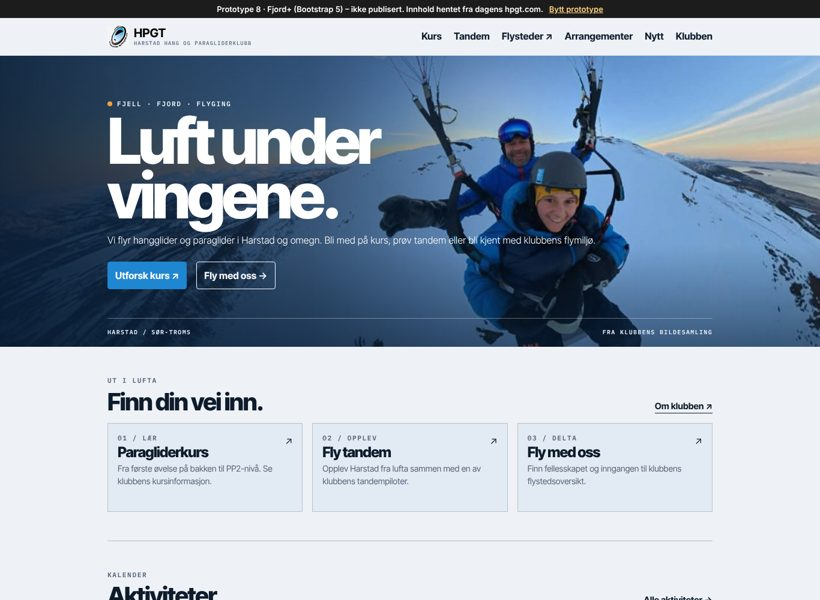
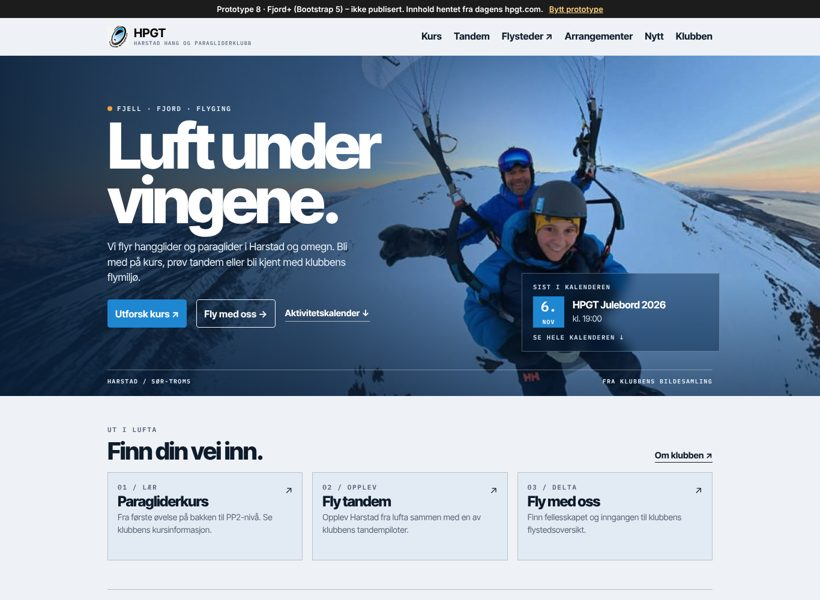
Fjord+: aktivitetskalender og overlay-kort på toppbildet (inspirert av Friluft+-utkastet), julebordet som aktivitet
Claude-Session: https://claude.ai/code/session_01NtTzVBrv64MLKp2Sqdi5ss

diff --git a/src/components/kalender.css b/src/components/kalender.css
@@ -1,0 +1,39 @@
+/* Aktivitetskalender. Hvert design setter --kal-*-variablene; standardverdiene er Fjord+ sine. */
+.kal { --_text: var(--kal-text, #0e1b2b); --_muted: var(--kal-muted, #56657a); --_line: var(--kal-line, #ccd7e4); --_surface: var(--kal-surface, #fff);
+  --_tint: var(--kal-tint, #e2eaf3); --_accent: var(--kal-accent, #1f86d1); --_accent-ink: var(--kal-accent-ink, #1569a8); --_mono: var(--kal-mono, ui-monospace, monospace);
+  display: grid; gap: 20px; grid-template-columns: minmax(0, 1fr) minmax(0, 1.2fr); align-items: start; color: var(--_text); }
+.kal:not(:has(.kal-grid:not([hidden]))) { grid-template-columns: minmax(0, 1fr); }
+@media (max-width: 760px) { .kal { grid-template-columns: minmax(0, 1fr); } }
+.kal-grid { background: var(--_surface); border: 1px solid var(--_line); padding: 16px; }
+.kal-controls { display: flex; justify-content: space-between; align-items: center; gap: 10px; margin-bottom: 10px; }
+.kal-label { margin: 0; font-weight: 800; font-size: 1.15rem; letter-spacing: -.02em; text-transform: capitalize; }
+.kal-btns { display: flex; gap: 4px; }
+.kal-btns button, .kal-jump { font: inherit; font-weight: 700; font-size: .85rem; color: var(--_text); background: var(--_surface); border: 1px solid var(--_line); padding: 5px 10px; cursor: pointer; }
+.kal-btns button:hover, .kal-jump:hover { border-color: var(--_accent); color: var(--_accent-ink); }
+.kal-btns button:focus-visible, .kal-jump:focus-visible { outline: 3px solid var(--_accent); outline-offset: 2px; }
+.kal-days { width: 100%; border-collapse: collapse; table-layout: fixed; font-variant-numeric: tabular-nums; }
+.kal-days th { font: 600 .66rem/1 var(--_mono); letter-spacing: .1em; text-transform: uppercase; color: var(--_muted); padding: 6px 0; text-align: center; }
+.kal-days td { text-align: center; padding: 2px; }
+.kal-day { display: grid; place-items: center; width: 34px; height: 34px; margin: auto; border-radius: 50%; font-size: .9rem; color: var(--_text); position: relative; }
+.kal-day--on { background: var(--_accent); color: #fff; font-weight: 700; }
+.kal-day--today { box-shadow: inset 0 0 0 2px var(--_text); }
+.kal-day--on.kal-day--today { box-shadow: inset 0 0 0 2px var(--_surface), 0 0 0 2px var(--_text); }
+.kal-legend { margin: 10px 0 0; font-size: .8rem; color: var(--_muted); display: flex; align-items: center; gap: 6px; }
+.kal-legend span { width: 12px; height: 12px; border-radius: 50%; background: var(--_accent); display: inline-block; }
+.kal-agenda { display: grid; gap: 10px; align-content: start; min-width: 0; }
+.kal-summary { background: var(--_tint); border: 1px solid var(--_line); padding: 12px 14px; }
+.kal-summary p { margin: 2px 0 0; }
+.kal-summary a { color: var(--_accent-ink); font-weight: 700; }
+.kal-eyebrow { font: 600 .66rem/1.2 var(--_mono); letter-spacing: .12em; text-transform: uppercase; color: var(--_muted); }
+.kal-title { margin: 6px 0 0; font-size: 1.15rem; font-weight: 800; letter-spacing: -.02em; }
+.kal-list { list-style: none; margin: 0; padding: 0; border-top: 1px solid var(--_line); }
+.kal-list li { display: grid; grid-template-columns: minmax(0, 1fr) auto; gap: 2px 12px; padding: 12px 2px; border-bottom: 1px solid var(--_line); }
+.kal-list li[hidden] { display: none; }
+.kal-date { grid-column: 1; font: 600 .7rem/1.3 var(--_mono); letter-spacing: .08em; text-transform: uppercase; color: var(--_accent-ink); }
+.kal-list a { grid-column: 1; font-weight: 700; color: var(--_text); text-decoration: none; }
+.kal-list a:hover { color: var(--_accent-ink); text-decoration: underline; }
+.kal-list small { grid-column: 1; color: var(--_muted); font-size: .85rem; }
+.kal-past { grid-column: 2; grid-row: 1 / span 2; align-self: center; font: 600 .6rem/1 var(--_mono); letter-spacing: .1em; text-transform: uppercase; color: var(--_muted); border: 1px solid var(--_line); padding: 4px 6px; }
+.kal-empty { margin: 4px 0 0; color: var(--_muted); }
+.kal-jump { justify-self: start; }
+.kal-fb { font-size: .88rem; font-weight: 700; color: var(--_accent-ink); }

diff --git a/public/assets/js/kalender.js b/public/assets/js/kalender.js
@@ -1,0 +1,64 @@
+// Aktivitetskalender: tegner månedsrutenettet og viser månedens aktiviteter. Leser data-start/data-end fra lista.
+(() => {
+  const root = document.querySelector("[data-kal]");
+  if (!root) return;
+  const q = (s) => root.querySelector(s);
+  const items = [...root.querySelectorAll("[data-kal-item]")].map((li) => ({
+    li, s: new Date(li.dataset.start + "T00:00:00"), e: new Date(li.dataset.end + "T23:59:59"),
+  }));
+  const mnd = ["januar", "februar", "mars", "april", "mai", "juni", "juli", "august", "september", "oktober", "november", "desember"];
+  const iDag = new Date(); iDag.setHours(0, 0, 0, 0);
+  let vis = new Date(iDag.getFullYear(), iDag.getMonth(), 1);
+  const overlapper = (it, a, b) => it.s <= b && it.e >= a;
+  q("[data-kal-grid]").hidden = false;
+
+  function tegn() {
+    const y = vis.getFullYear(), m = vis.getMonth();
+    const forste = new Date(y, m, 1), siste = new Date(y, m + 1, 0, 23, 59, 59);
+    q("[data-kal-label]").textContent = `${mnd[m]} ${y}`;
+    q("[data-kal-title]").textContent = `Aktiviteter i ${mnd[m]} ${y}`;
+    const tom = (forste.getDay() + 6) % 7;
+    const tbody = q("[data-kal-days]");
+    tbody.replaceChildren();
+    let rad = document.createElement("tr");
+    for (let i = 0; i < tom; i++) rad.append(document.createElement("td"));
+    for (let d = 1; d <= siste.getDate(); d++) {
+      if ((tom + d - 1) % 7 === 0 && d > 1) { tbody.append(rad); rad = document.createElement("tr"); }
+      const dag = new Date(y, m, d), slutt = new Date(y, m, d, 23, 59, 59);
+      const td = document.createElement("td"), span = document.createElement("span");
+      span.className = "kal-day";
+      span.textContent = d;
+      if (items.some((it) => overlapper(it, dag, slutt))) { span.classList.add("kal-day--on"); span.title = "Aktivitet denne dagen"; }
+      if (+dag === +iDag) { span.classList.add("kal-day--today"); span.setAttribute("aria-current", "date"); }
+      td.append(span); rad.append(td);
+    }
+    tbody.append(rad);
+    let antall = 0;
+    for (const it of items) {
+      const synlig = overlapper(it, forste, siste);
+      it.li.hidden = !synlig;
+      if (synlig) antall++;
+      const past = it.li.querySelector("[data-kal-past]");
+      if (past) past.hidden = !(it.e < iDag);
+    }
+    q("[data-kal-empty]").hidden = antall > 0;
+    const hopp = q("[data-kal-jump]");
+    hopp.hidden = true;
+    if (!antall) {
+      const fram = items.filter((it) => it.s > siste).sort((a, b) => a.s - b.s)[0];
+      const bak = items.filter((it) => it.e < forste).sort((a, b) => b.e - a.e)[0];
+      const mal = fram || bak;
+      if (mal) {
+        hopp.hidden = false;
+        hopp.textContent = `${fram ? "Neste" : "Forrige"} aktivitet: ${mnd[mal.s.getMonth()]} ${mal.s.getFullYear()} ${fram ? "→" : "←"}`;
+        hopp.onclick = () => { vis = new Date(mal.s.getFullYear(), mal.s.getMonth(), 1); tegn(); };
+      }
+    }
+  }
+  root.addEventListener("click", (e) => {
+    const steg = e.target.closest("[data-kal-step]");
+    if (steg) { vis = new Date(vis.getFullYear(), vis.getMonth() + Number(steg.dataset.kalStep), 1); tegn(); }
+    if (e.target.closest("[data-kal-today]")) { vis = new Date(iDag.getFullYear(), iDag.getMonth(), 1); tegn(); }
+  });
+  tegn();
+})();

diff --git a/src/themes/fjordpluss/style.css b/src/themes/fjordpluss/style.css
@@ -174,3 +174,21 @@ code { font: 600 .9em var(--mono); background: var(--tint); padding: 1px 6px; }
 .foot__end { display: flex; flex-wrap: wrap; justify-content: space-between; gap: 12px; margin-top: 30px; padding-top: 14px; border-top: 1px solid var(--line); font-size: .82rem; }
 .quote { margin: 0; font-style: italic; color: var(--text); }
 .quote span { font-style: normal; color: var(--muted); }
+
+/* Overlay-kort på toppbildet: neste (eller siste) aktivitet, lenker ned til kalenderen. Frostet glass over bildet. */
+.hero__in { position: relative; }
+.hero__cal { align-self: center; color: #fff; font-weight: 700; font-size: .92rem; text-decoration: none; border-bottom: 1.5px solid rgba(255,255,255,.6); padding: 2px 0; }
+.hero__cal:hover { border-color: #fff; }
+.hero__next { display: grid; gap: 10px; width: min(330px, 100%); margin-top: 28px; padding: 16px 18px; color: #fff; text-decoration: none;
+  background: rgba(8, 28, 52, .42); border: 1px solid rgba(255,255,255,.28); -webkit-backdrop-filter: blur(10px) saturate(1.2); backdrop-filter: blur(10px) saturate(1.2); }
+.hero__next:hover { background: rgba(8, 28, 52, .58); border-color: rgba(255,255,255,.5); }
+.hero__next .eyebrow { margin: 0; }
+.hero__next-row { display: flex; gap: 14px; align-items: center; }
+.hero__next-date { display: grid; place-items: center; min-width: 52px; height: 52px; background: var(--sky); font: 600 .62rem/1 var(--mono); letter-spacing: .1em; text-transform: uppercase; }
+.hero__next-date b { font: 800 1.45rem/1 var(--display); letter-spacing: -.03em; }
+.hero__next-t { display: block; font-size: 1.05rem; letter-spacing: -.02em; line-height: 1.2; }
+.hero__next small { color: #cfe0ef; }
+.hero__next-link { font: 600 .66rem/1 var(--mono); letter-spacing: .12em; text-transform: uppercase; color: #cfe0ef; }
+@media (min-width: 900px) { .hero__next { position: absolute; right: 0; bottom: 74px; margin: 0; } }
+/* Kalenderen bruker designets farger */
+.kal { --kal-text: var(--text); --kal-muted: var(--muted); --kal-line: var(--line); --kal-surface: var(--surface); --kal-tint: var(--tint); --kal-accent: var(--sky); --kal-accent-ink: var(--sky-ink); --kal-mono: var(--mono); }

diff --git a/src/components/hero-neste.css b/src/components/hero-neste.css
@@ -1,0 +1,12 @@
+.hn { display: grid; gap: 10px; width: min(330px, 100%); margin-top: 28px; padding: 16px 18px; color: #fff !important; text-decoration: none !important;
+  background: rgba(8, 28, 52, .42); border: 1px solid rgba(255,255,255,.28); -webkit-backdrop-filter: blur(10px) saturate(1.2); backdrop-filter: blur(10px) saturate(1.2); }
+.hn:hover { background: rgba(8, 28, 52, .58); border-color: rgba(255,255,255,.5); }
+.hn-eyebrow { font: 600 .66rem/1.2 var(--kal-mono, ui-monospace, monospace); letter-spacing: .12em; text-transform: uppercase; color: #cfe0ef; }
+.hn-row { display: flex; gap: 14px; align-items: center; }
+.hn-date { display: grid; place-items: center; min-width: 52px; height: 52px; background: var(--kal-accent, #1f86d1); font: 600 .62rem/1 var(--kal-mono, ui-monospace, monospace); letter-spacing: .1em; text-transform: uppercase; }
+.hn-date b { font-size: 1.45rem; font-weight: 800; letter-spacing: -.03em; font-family: inherit; }
+.hn-t { display: block; font-size: 1.05rem; letter-spacing: -.02em; line-height: 1.2; }
+.hn small { color: #cfe0ef; }
+@media (min-width: 900px) { .hn { position: absolute; right: 0; bottom: 74px; margin: 0; } }
+.hn-cal { align-self: center; color: #fff !important; font-weight: 700; font-size: .92rem; text-decoration: none !important; border-bottom: 1.5px solid rgba(255,255,255,.6); padding: 2px 0; }
+.hn-cal:hover { border-color: #fff; }

diff --git a/src/themes/fjordpluss-bs/style.css b/src/themes/fjordpluss-bs/style.css
@@ -77,3 +77,5 @@ body { -webkit-font-smoothing: antialiased; }
 .display-hero { margin-bottom: 18px !important; }
 .navbar-toggler { color: var(--bs-body-color); border: 1.5px solid currentColor; border-radius: 4px; font-weight: 700; font-size: .9rem; padding: 6px 12px; }
 .navbar-toggler:focus { box-shadow: 0 0 0 3px rgba(31,134,209,.4); }
+.kal { --kal-text: var(--bs-body-color); --kal-muted: var(--bs-secondary-color); --kal-line: var(--bs-border-color); --kal-surface: var(--bs-card-bg, #fff); --kal-tint: var(--tint); --kal-accent: #1f86d1; --kal-accent-ink: var(--sky-ink); --kal-mono: var(--bs-font-monospace); }
+.hn { --kal-mono: var(--bs-font-monospace); }

diff --git a/src/themes/fjordpluss-tw/style.css b/src/themes/fjordpluss-tw/style.css
@@ -50,3 +50,5 @@
 @media (max-width: 767px) { .js .navlinks:not([data-open]) { display: none; } }
 .hero-img { transform: scale(1.45); transform-origin: 23% 62%; }
 @media (max-width: 600px) { .hero-img { transform: scale(1.9); transform-origin: 56% 64%; } }
+.kal { --kal-text: var(--color-ink); --kal-muted: var(--color-muted); --kal-line: var(--color-line); --kal-surface: var(--color-surface); --kal-tint: var(--color-tint); --kal-accent: var(--color-sky); --kal-accent-ink: var(--color-sky-ink); --kal-mono: var(--font-mono); }
+.hn { --kal-accent: var(--color-sky); --kal-mono: var(--font-mono); }

diff --git a/scripts/lag-forhandsvisning.py b/scripts/lag-forhandsvisning.py
@@ -6,7 +6,7 @@ import os, re, shutil, sys, urllib.parse
 
 SRC, OUT = sys.argv[1], sys.argv[2]
 THEMES = ["fjordpluss", "fjordpluss-tw", "fjordpluss-bs", "fjord", "pico", "magasin", "klassisk", "nordlys"]
-REF = os.path.join(SRC, "fjord")
+REF = os.path.join(SRC, "fjordpluss")
 
 def keep(rel):  # rel: sidens mappe relativt til temaroten, f.eks. "kurs-2026" eller ""
     if rel in ("", "nytt", "arrangementer", "bidra", "events", "galleri") or rel.startswith("nytt/kategori/"):
@@ -29,10 +29,10 @@ for root, _, files in os.walk(REF):
     if "index.html" in files:
         rel = os.path.relpath(root, REF).replace(os.sep, "/")
         rel = "" if rel == "." else rel
-        if keep(rel) or rel.startswith("event/") and rel.split("/")[1] in ("sikkerhetsdag-nodskjerm", "nybegynnerkurs", "hpgt-var-kickoff-2021", "sikkerhetsseminar", "arsmote-2020"):
+        if keep(rel) or rel.startswith("event/") and rel.split("/")[1] in ("sikkerhetsdag-nodskjerm", "nybegynnerkurs", "hpgt-var-kickoff-2021", "sikkerhetsseminar", "arsmote-2020", "hpgt-julebord-2026"):
             pages.append(rel)
 pages = sorted(set(p for p in pages if not p.startswith("event/") or p.split("/")[1] in
-               ("sikkerhetsdag-nodskjerm", "nybegynnerkurs", "hpgt-var-kickoff-2021", "sikkerhetsseminar", "arsmote-2020")))
+               ("sikkerhetsdag-nodskjerm", "nybegynnerkurs", "hpgt-var-kickoff-2021", "sikkerhetsseminar", "arsmote-2020", "hpgt-julebord-2026")))
 page_set = set(pages)
 
 shutil.rmtree(OUT, ignore_errors=True)

diff --git a/src/content/arrangementer/2026-11-06-hpgt-julebord-2026.md b/src/content/arrangementer/2026-11-06-hpgt-julebord-2026.md
@@ -1,0 +1,6 @@
+---
+title: "HPGT Julebord 2026"
+start: "2026-11-06T19:00:00"
+permalink: "/event/hpgt-julebord-2026/"
+---
+Årets julebord for PG-gjengen. Deltakeravgift 300 kr, påmelding og betaling via Facebook-eventet. Se [nyheten om julebordet](/hpgt-julebord-2026-🎄/) for detaljer.
